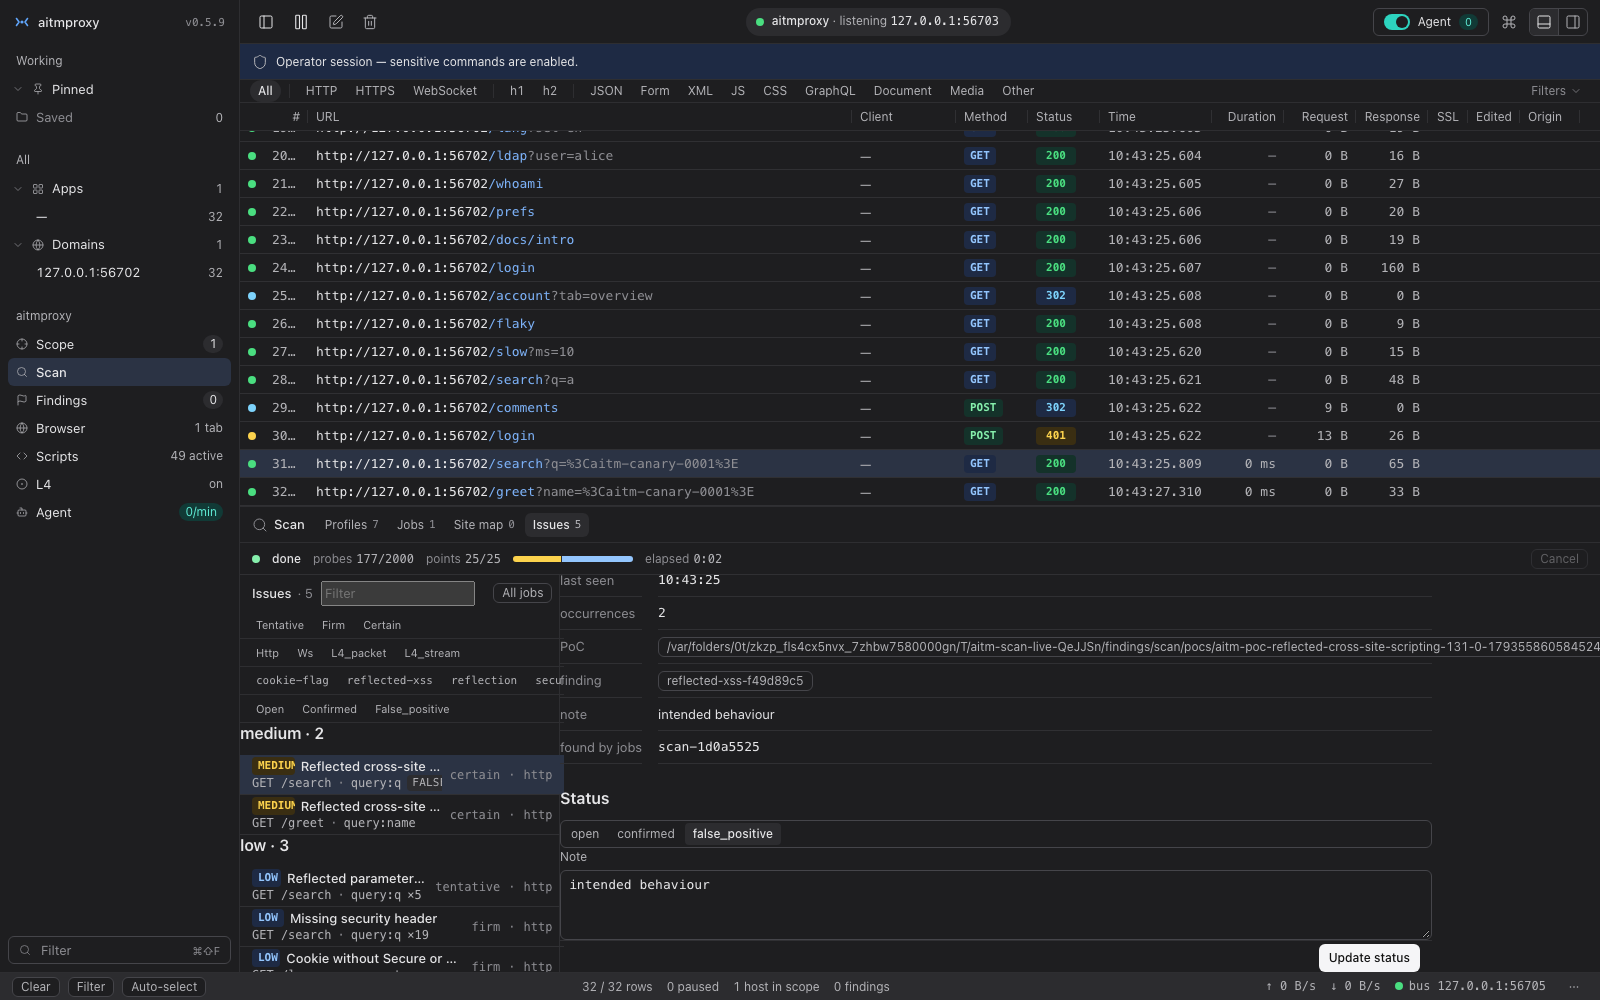
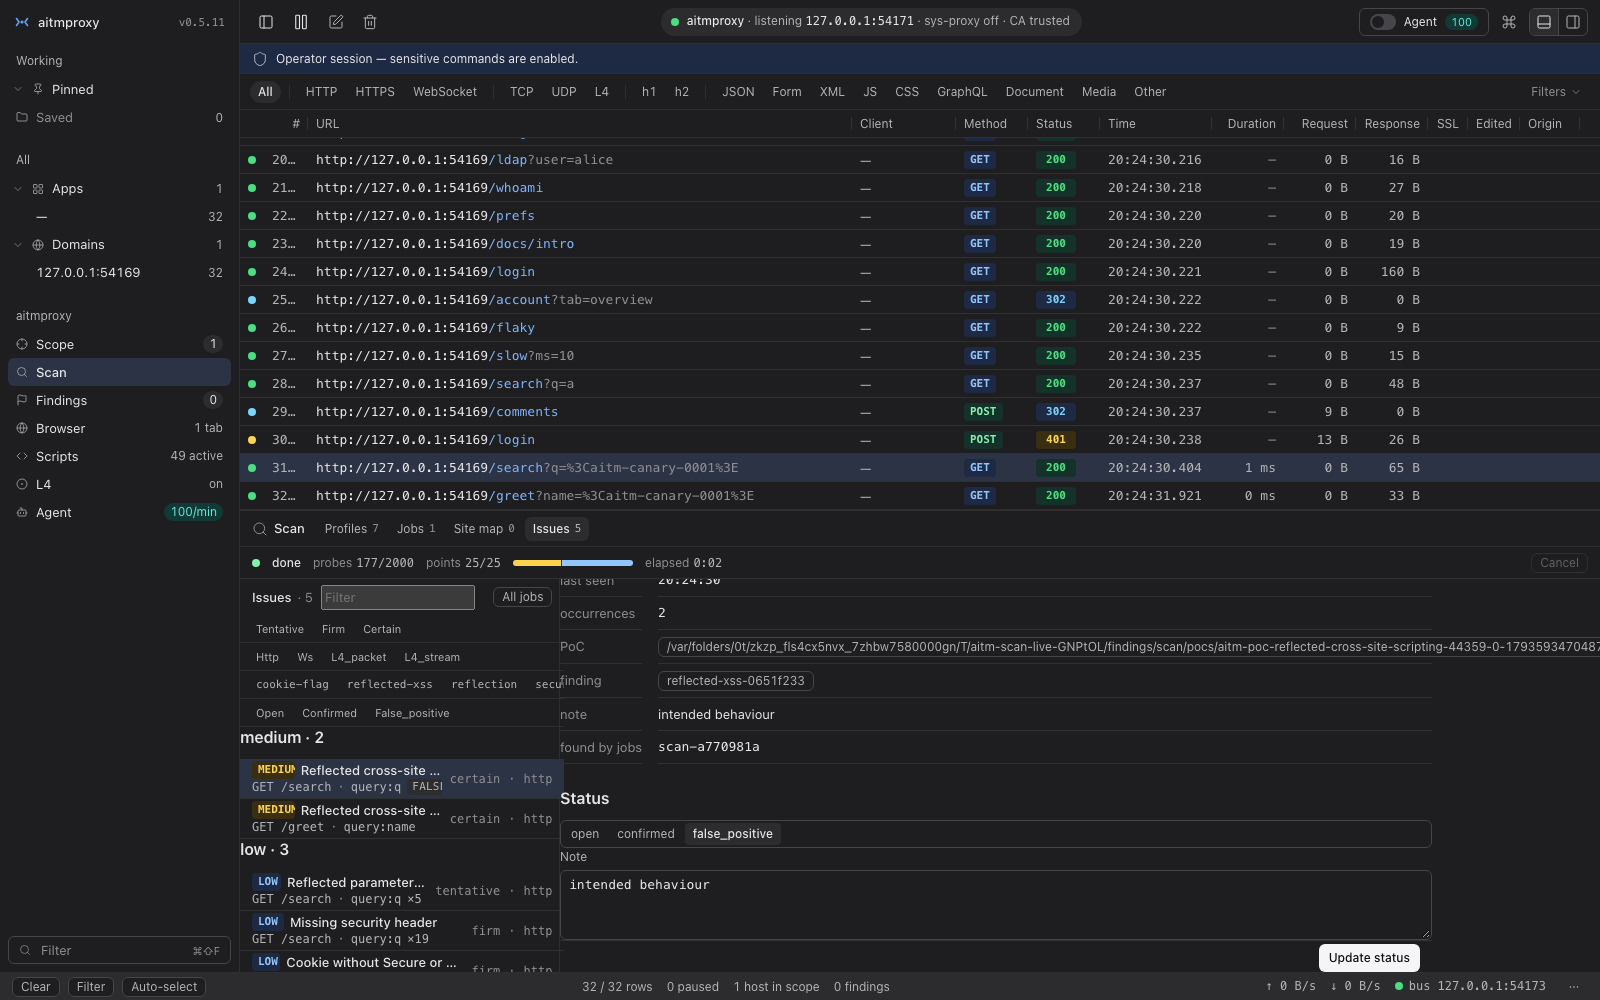
docs(scanner-v2): T8 live proof on a core built from the branch with the engine on main (26 PASS / 0 FAIL / 1 GAP); evidence refreshed

diff --git a/docs/superpowers/plans/2026-10-31-aitmproxy-scanner-v2-t8-web-scan-plan.md b/docs/superpowers/plans/2026-10-31-aitmproxy-scanner-v2-t8-web-scan-plan.md
@@ -321,6 +321,7 @@ Kept by the main session during stage 6. One row per finding.
 | 15 | live run 7 (`42fb1da5` web on T1b `ca852f71`) | — | 26 PASS · 0 FAIL · 1 GAP (8b `lane_unavailable`: the dialog showed the core's prompt, `_confirm` was sent, the core has no L4 lane built; the UI rendered the refusal) | accepted (orchestrator, 2026-11-01): the GAP the plan foresaw; final run on `eb379134` recorded in the PR |
 | 16 | live run 8 (`eb379134` web on T1b `ca852f71`, final head) | — | 26 PASS · 0 FAIL · 1 GAP (8b `lane_unavailable`, no L4 lane on this core); artefacts in `apps/web/live-proof/t8-scan-2026-11-01/` | PASS; acceptance evidence for W-7, W-8, W-9, W-10, W-20 |
 | 16 | merge of main `e12b3e20` (`6b812662`) + live run 9 on it | — | main's #247 rewrote `panels/l4/inject.ts` (confirm handshake); clean merge; gate typecheck 0 / vitest 870 / build 0; live run 26 PASS · 0 FAIL · 1 GAP (same 8b) | PASS; log `apps/web/live-proof/t8-scan-2026-11-01/scan-live-after-main-merge.log` |
+| 16 | merge of main `82e495f3` (`4b169d5b`; engine #232 and web L4 parity #276 on main) + live run 11 on a core built from the branch | — | clean merge; gate typecheck 0 / vitest 1122 passed, 1 skipped / build 0; live run 26 PASS · 0 FAIL · 1 GAP (same 8b); evidence refreshed in `apps/web/live-proof/t8-scan-2026-11-01/` | PASS; the first proof on a release-shaped core |
 
 ## Shipped
 

diff --git a/apps/web/live-proof/t8-scan-2026-11-01/README.md b/apps/web/live-proof/t8-scan-2026-11-01/README.md
@@ -22,3 +22,13 @@ Main's #247 rewrote `apps/web/src/panels/l4/inject.ts`, which the launch handsha
 was re-run on the merged head against the same `ca852f71` engine: **26 PASS · 0 FAIL · 1 GAP** (the same
 8b GAP). Step log: `scan-live-after-main-merge.log`. Web gate on the merged head: typecheck 0, vitest
 870/870, build 0.
+
+## Final run: engine on main, core built from this branch (4b169d5b)
+
+After #232 merged, main `82e495f3` (incl. `c99ea718`, #276 web L4 parity) was merged into the branch
+(`4b169d5b`, clean) and the core was built from the branch itself (`cargo build -p aitm -p
+aitm-testtarget` with this `apps/web/dist` embedded): the first proof on a release-shaped core.
+`node apps/web/scripts/scan-live.mjs`: **26 PASS · 0 FAIL · 1 GAP** (same 8b GAP: no L4 lane on this
+build). The screenshots and `bus-transcript.jsonl` in this directory are from this run; the step log is
+`scan-live-engine-on-main.log`. Web gate on `4b169d5b`: typecheck 0, vitest 1122 passed / 1 skipped,
+build 0.
